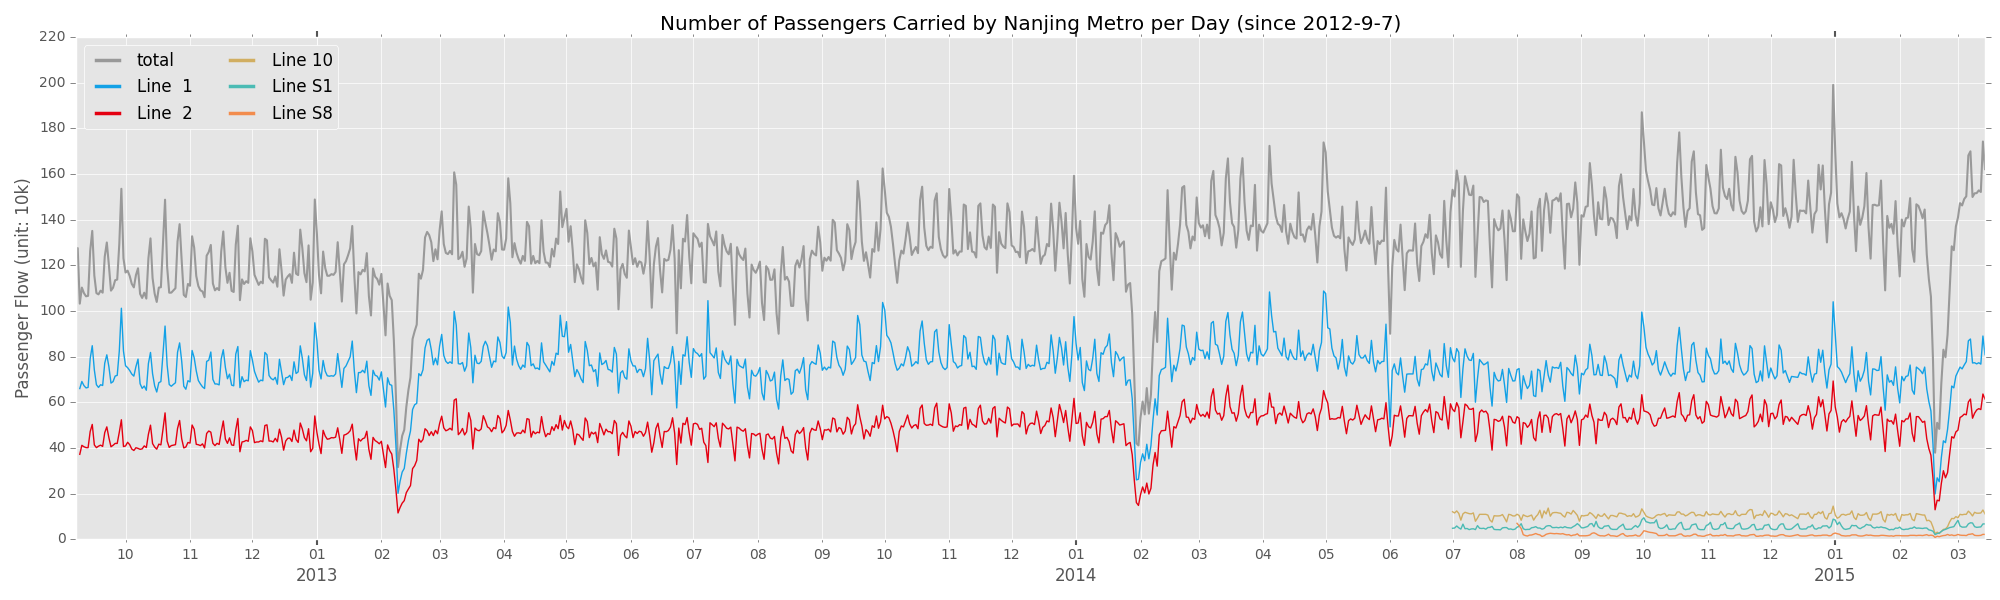
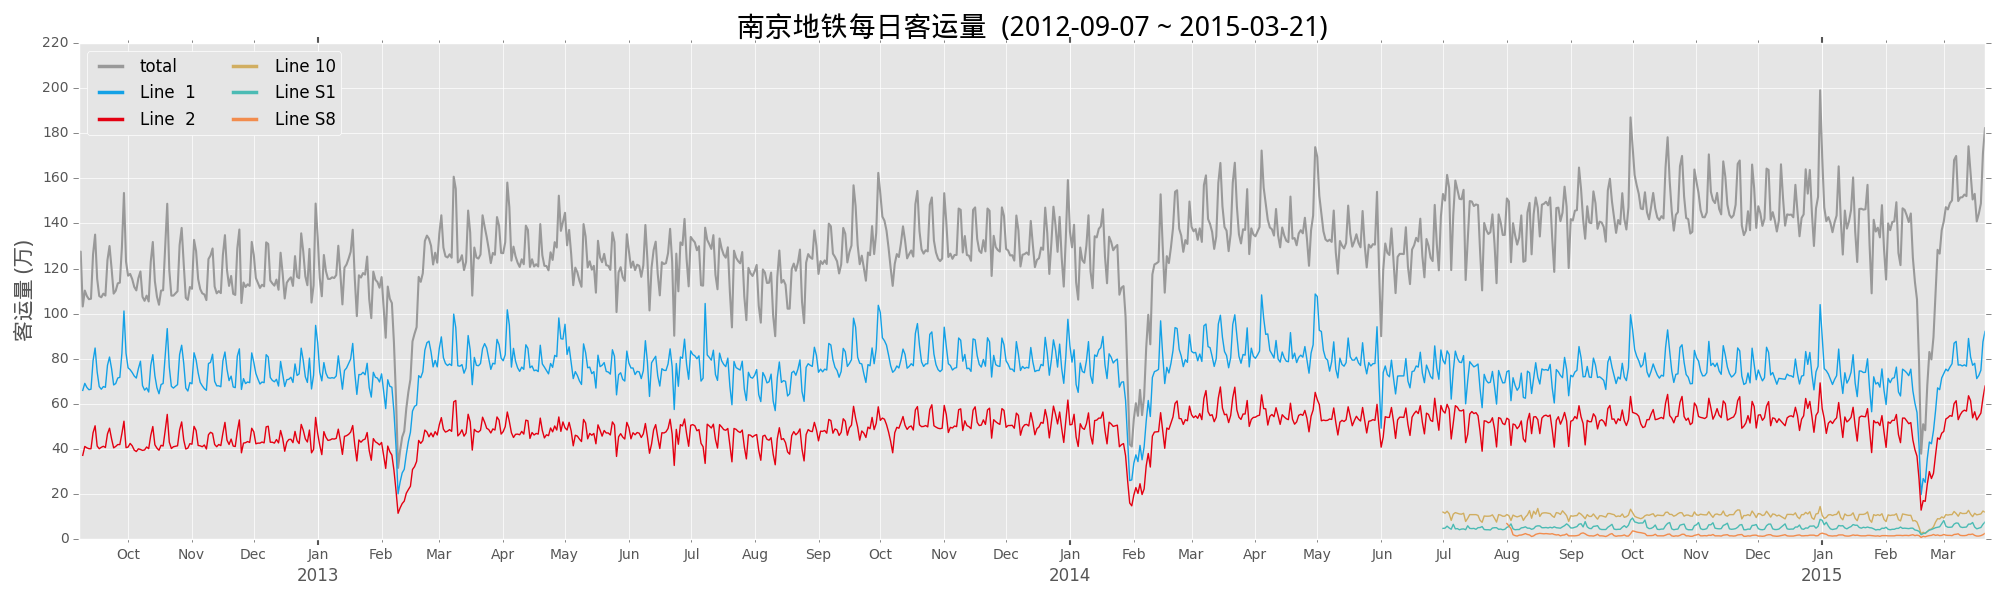
second revise

diff --git a/draw.py b/draw.py
@@ -1,25 +1,40 @@
 #!/usr/bin/env python
 import numpy as np
+import datetime
 import matplotlib.pyplot as plt
 import matplotlib.dates as mdates
 import matplotlib.lines as mlines
+import matplotlib.font_manager as mfont
 from pylab import figure
 
 
 class DrawFigure():
-    def __init__(self, datas, figsize=(20,6), datarange='all'):
+    def __init__(self, datas, year=None, update=''):
         plt.style.use('ggplot')
+        self.font_title = mfont.FontProperties(
+                fname='/usr/share/fonts/wenquanyi/wqy-microhei/wqy-microhei.ttc',
+                size=20)
+        self.font_label = mfont.FontProperties(
+                fname='/usr/share/fonts/wenquanyi/wqy-microhei/wqy-microhei.ttc',
+                size=15)
+        if year:
+            l = int(len(datas[0]['x'])/365*20)
+            if l<15: l = 10
+            figsize = (l,6)
+        else:
+            figsize = (20,6)
         fig = plt.figure(figsize=figsize)
         fig.set_tight_layout(True)
         self.ax = fig.add_subplot(1,1,1)
         self.datas = datas
-        self.datarange= datarange
+        self.year = year
+        self.update=update
     
     def set_locator_and_formatter(self):
         years    = mdates.YearLocator()   # every year
         months   = mdates.MonthLocator()  # every month
         yearsFmt = mdates.DateFormatter('%Y')
-        monthsFmt = mdates.DateFormatter('%m')  #%b
+        monthsFmt = mdates.DateFormatter('%b')  #%b
 
         # format the ticks
         self.ax.set_yticks([0,20,40,60,80,100,120,140,160,180,200,220])
@@ -42,40 +57,47 @@ class DrawFigure():
         # format the ticks
         self.ax.set_yticks([0,20,40,60,80,100,120,140,160,180,200,220])
         self.ax.xaxis.set_major_locator(mdates.WeekdayLocator(mdates.MONDAY))
-        self.ax.xaxis.set_major_formatter(mdates.DateFormatter('%Y-%m-%d'))
+        self.ax.xaxis.set_major_formatter(mdates.DateFormatter('%m-%d'))
         self.ax.xaxis.set_minor_locator(mdates.DayLocator())
         self.ax.grid(True)  # 'minor' major'(default)
 
     def add_plot(self):
         for item in self.datas:
-            self.ax.plot(item['x'], item['y'], color=item['color'], linewidth=item['linewidth'])
+            self.ax.plot(item['x'], item['y'], color=item['color'], 
+                    linewidth=item['linewidth'])
 
         # Legend 图例
         handlers=[]
         for item in self.datas:
-            line = mlines.Line2D([],[], color=item['color'], linewidth=2.5, label=item['label'])
+            line = mlines.Line2D([],[], color=item['color'], linewidth=2.5, 
+                    label=item['label'])
             handlers.append(line)
 
         self.ax.legend(handles=handlers, loc='upper left', ncol=2,\
-            fancybox=True )
+            fancybox=True)
 
     def draw(self):
-        if self.datarange == 'all':
-            print('Draw all data')
-            title='Number of Passengers Carried by Nanjing Metro per Day (since 2012-9-7)'
+        if self.year == None:
+            print('Drawing all datas:')
+            title='南京地铁每日客运量  '+ \
+                  '(2012-09-07 ~ {0})'.format(self.update)
             fname='Nanjing-Metro-passenger-Flow-since-20120907.png'
             self.set_locator_and_formatter()
         else:
-            print('Draw data 2015')
-            title='Number of Passengers Carried by Nanjing Metro per Day (since 2015-1-1)'
+            print('Drawing datas of {0}:'.format(self.year))
+            year_end = datetime.date(self.year, 12, 31)
+            if year_end.isoformat() != self.update:
+                year_end = self.update
+            title='南京地铁每日客运量  '+\
+                  '({0}-01-01 ~ {1})'.format(self.year, year_end)
             fname='Nanjing-Metro-passenger-Flow-2005.png'
             self.set_one_year()
-        self.add_plot()
 
-        self.ax.format_xdata = mdates.DateFormatter('%Y-%m-%d') # pointer info
-         
-        plt.title(title) # plot title
-        plt.ylabel('Passenger Flow (unit: 10k)') # Y label
+        self.add_plot()
+        #self.ax.format_xdata = mdates.DateFormatter('%Y-%m-%d') # pointer info
+        
+        plt.title(title, fontproperties=self.font_title) # plot title
+        plt.ylabel('客运量 (万)',fontproperties=self.font_label) # Y label
         #plt.xlabel('date') # X label
         plt.ylim(0, 220)
         #pl.xlim(0.0, 9.0)# set axis limits

diff --git a/analysis.py b/analysis.py
@@ -109,9 +109,6 @@ def _search_data(content, date):
     else:
         return
 
-def filter_data(year=None, month=None, day=None):
-    global filter_year
-    filter_year=year
 
 def get_updated_date(file):
     f = open(file,"r")
@@ -123,6 +120,7 @@ def get_updated_date(file):
     return datetime.date(*[int(i) for i in dates.groups()])
 
 def check_data():
+    print('checking data.')
     #the day data lost
     # 2014-12-12 【昨日客流】12月12日全线网客运量为166.2万人次。
     # 2014-12-13 【昨日客流】南京地铁12月13日全线网客运量为151.2万人次
@@ -172,11 +170,18 @@ def get_passenger_flow_data(file, check=False):
     print('line S8 records: {0}'.format(len(data_S8[0])))
     if check:
         check_data()
-    
-filter_year = None
-#filter_data(year=2015)
 
-get_passenger_flow_data('./passenger-flow-weibos.txt', check=False)
+
+check = False
+filter_year = None
+if len(sys.argv) > 1:
+    if sys.argv[1].isdigit() and int(sys.argv[1]) > 2011:
+        filter_year = int(sys.argv[1])
+    elif sys.argv[1] == 'check':
+        check = True
+
+
+get_passenger_flow_data('./passenger-flow-weibos.txt', check=check)
 
 datas = [{'x': data_total[0], 'y':data_total[1], 'color':'#999999', 'linewidth':1.5, 'label':'total'},
         {'x': data_1[0],     'y':data_1[1],     'color':'#13A1E6', 'linewidth':1, 'label':'Line  1'},
@@ -187,8 +192,8 @@ datas = [{'x': data_total[0], 'y':data_total[1], 'color':'#999999', 'linewidth':
 ]
 
 if filter_year:
-    show = DrawFigure(datas, datarange='year')
+    show = DrawFigure(datas, year=filter_year, update=updated_date.isoformat())
 else:
-    show = DrawFigure(datas)
+    show = DrawFigure(datas, update=updated_date.isoformat())
 show.draw()
 

diff --git a/README.md b/README.md
@@ -1,9 +1,9 @@
 南京地铁每日客流统计
 =======================
 
-使用 python 脚本抓取官方微博`@南京地铁` 每天的 __昨日客流__ 报告，并提取出各线客流数据。
+使用 python 脚本抓取官方微博`@南京地铁` 每天发布的__【昨日客流】__报告，并提取出各线路客流数据。
 
-客流数据起起始于 2012-09-07，[地址链接](https://github.com/waterdrinker/Nanjing-Metro-Passenger-Flow/blob/master/passenger-flow-weibos.txt)。不定期更新。
+客流数据起始于 2012-09-07，目前更新至 2015-03-21。[数据地址](https://github.com/waterdrinker/Nanjing-Metro-Passenger-Flow/blob/master/passenger-flow-weibos.txt)，不定期更新。
 
 2015年 南京地铁每日客流数据图表
 ------------
